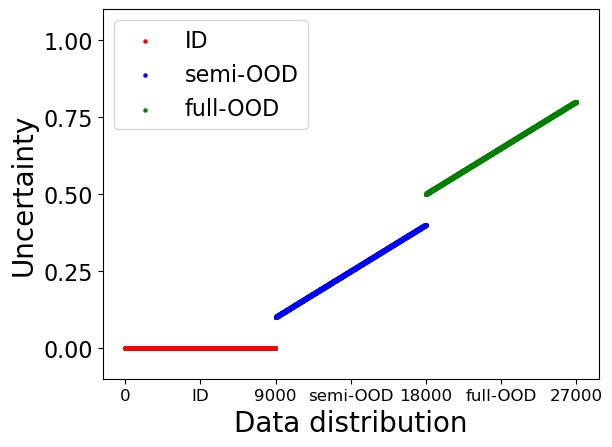
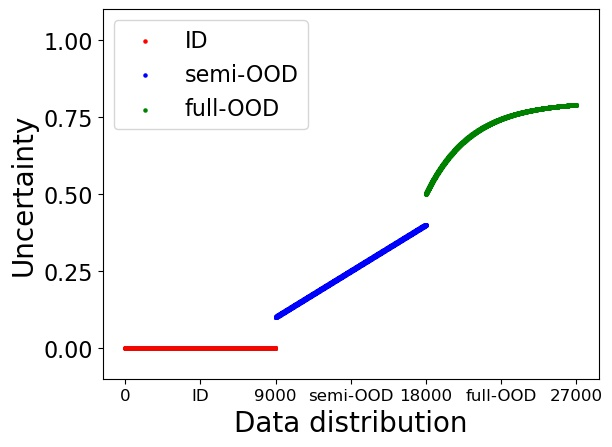
fix_ideal_visualization

Changed region(s): [[0.683, 0.2327, 0.9314, 0.4362], [0.9314, 0.2036, 0.9624, 0.2327]]

diff --git a/MNIST/compare/ideal/plot.py b/MNIST/compare/ideal/plot.py
@@ -1,3 +1,4 @@
+from cmath import exp
 from matplotlib import pyplot as plt
 import numpy as np
 
@@ -9,7 +10,7 @@ f3 = []
 for i in range(9000) :
     f1.append(0)
     f2.append(1+3*i/9000)
-    f3.append(5+3*i/9000)
+    f3.append(8-3*exp(-i/2700))
 
 len_1 = len(f1)
 len_2 = len(f2)
